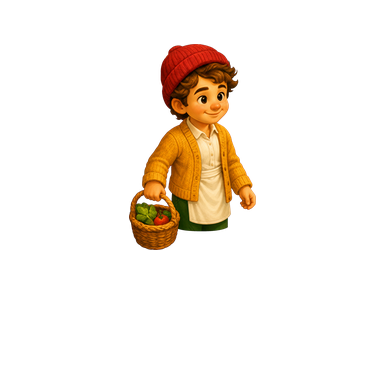
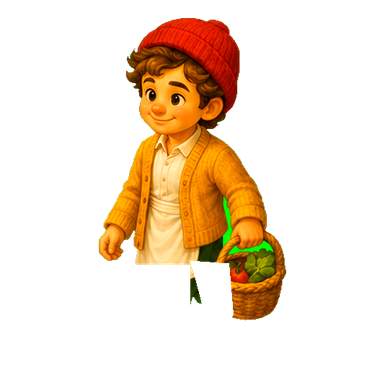
Improve idle Compo walkers and layout controls

Changed region(s): [[0.25, 0.0312, 0.75, 0.8438]]

diff --git a/idle/app.js b/idle/app.js
@@ -1345,18 +1345,18 @@
     return compo.buildings.towncenter >= 2 || compo.buildings.beachmarket >= 2 || compo.buildings.icecream >= 2 || compo.buildings.boat >= 2 || getCompoLevelInfo(compo.xp).level >= 3;
   }
 
-  function beachWalkerSprite(person, compo = getCompo()) {
+  function beachWalkerStrip(person, compo = getCompo()) {
     const early = {
-      "beach-angler": "beach-shell-collector",
-      "beach-vendor": "beach-red-hat-vendor",
-      "beach-counselor": "beach-crabber",
+      "beach-collector": "beach-shell-girl-walk",
+      "beach-crabber": "beach-crab-boy-walk",
+      "beach-helper": "beach-kelp-girl-walk",
     };
     const modern = {
-      "beach-angler": "beach-lifeguard-modern",
-      "beach-vendor": "beach-icecream-vendor-modern",
-      "beach-counselor": "beach-tennis-modern",
+      "beach-collector": "beach-lifeguard-girl-modern-walk",
+      "beach-crabber": "beach-sailor-boy-modern-walk",
+      "beach-helper": "beach-tennis-girl-modern-walk",
     };
-    const filename = (isModernCompoEra(compo) ? modern : early)[person] || early["beach-angler"];
+    const filename = (isModernCompoEra(compo) ? modern : early)[person] || early["beach-collector"];
     return `assets/art/compo-world/people/${filename}.png`;
   }
 
@@ -1476,17 +1476,17 @@
       const spotButtons = compo.spots.map((_, index) => `<button class="beach-spot" data-beach-spot="${index}" type="button"><img class="world-asset beach-catch-image" alt=""><span class="beach-label"></span></button>`);
       const buildingButtons = Object.entries(BEACH_BUILDINGS).map(([id, config]) => `<button class="beach-building ${id}-beach-building" data-beach-building="${id}" type="button" aria-label="${config.name}"><img class="world-asset beach-building-image" alt=""><em class="construction-badge" aria-hidden="true">Building…</em><span class="beach-label">${config.short}</span></button>`);
       const habitatButtons = Object.entries(BEACH_HABITATS).map(([id, config]) => `<button class="beach-habitat ${id}-beach-habitat" data-beach-habitat="${id}" type="button" aria-label="${config.name}"><img class="world-asset beach-habitat-image" alt=""><span class="beach-label">${config.name}</span></button>`);
-      const walkers = ["beach-angler", "beach-vendor", "beach-counselor"].map((person) => `<span class="shore-walker" data-beach-walker="${person}"><img class="shore-walker-sprite" alt=""></span>`);
+      const walkers = ["beach-collector", "beach-crabber", "beach-helper"].map((person) => `<span class="shore-walker shore-walker-${person}" data-beach-walker="${person}"><span class="shore-walker-frame"><img class="shore-walker-strip" alt=""></span></span>`);
       dom.beachWorld.innerHTML = [...spotButtons, ...buildingButtons, ...habitatButtons, `<div class="beach-life" aria-hidden="true">${walkers.join("")}</div>`].join("");
       dom.beachWorld.dataset.ready = "true";
       startBeachWalkerRoutes();
     }
 
     dom.beachWorld.querySelectorAll("[data-beach-walker]").forEach((walker) => {
-      const sprite = walker.querySelector(".shore-walker-sprite");
-      if (!sprite) return;
-      const source = beachWalkerSprite(walker.dataset.beachWalker, compo);
-      if (sprite.getAttribute("src") !== source) sprite.src = source;
+      const strip = walker.querySelector(".shore-walker-strip");
+      if (!strip) return;
+      const source = beachWalkerStrip(walker.dataset.beachWalker, compo);
+      if (strip.getAttribute("src") !== source) strip.src = source;
     });
 
     dom.beachWorld.querySelectorAll("[data-beach-spot]").forEach((button, index) => {
@@ -1567,7 +1567,11 @@
       button.disabled = region === "compo" && !state.districts.compo;
       if (region === "compo") button.textContent = state.districts.compo ? "Compo Coast" : "🔒 Compo Coast";
     });
-    dom.layoutButton.innerHTML = layoutMode ? `<span>✓</span><b>Done arranging</b>` : `<span>✥</span><b>Arrange town</b>`;
+    const arrangingLabel = state.activeRegion === "compo" ? "Arrange coast" : "Arrange town";
+    dom.layoutButton.innerHTML = layoutMode ? `<span>✓</span><b>Done arranging</b>` : `<span>✥</span><b>${arrangingLabel}</b>`;
+    dom.layoutHint.textContent = state.activeRegion === "compo"
+      ? "Drag fishing spots, beach buildings, and beach homes to arrange Compo. Tap Done when it feels right."
+      : "Drag buildings and habitats to arrange your town. Tap Done when it feels right.";
     dom.worldArt.classList.toggle("layout-mode", layoutMode);
     if (state.activeRegion === "compo") renderBeachWorld(now, season);
     if (dom.worldCrops.children.length !== state.plots.length) {
@@ -3098,12 +3102,12 @@
     const constructionTarget = beachConstructionTarget();
     if (constructionTarget !== null && Math.random() < 0.42) return constructionTarget;
     const catchTarget = beachReadyCatchTarget();
-    if (person === "beach-angler" && catchTarget !== null) return catchTarget;
+    if ((person === "beach-collector" || person === "beach-crabber") && catchTarget !== null) return catchTarget;
     const compo = getCompo();
-    if (person === "beach-vendor" && compo.buildings.beachmarket > 0 && (getTotalBeachProduce(compo) > 0 || Math.random() < 0.35)) return beachBuildingTarget("beachmarket");
-    if (person === "beach-counselor" && compo.buildings.towncenter > 0 && Math.random() < 0.55) return beachBuildingTarget("towncenter");
-    if (person === "beach-counselor" && compo.habitats.apartment > 0 && Math.random() < 0.25) return beachHabitatTarget("apartment");
-    if (person === "beach-angler" && compo.buildings.boat > 0 && Math.random() < 0.45) return beachBuildingTarget("boat");
+    if ((person === "beach-collector" || person === "beach-helper") && compo.buildings.beachmarket > 0 && (getTotalBeachProduce(compo) > 0 || Math.random() < 0.35)) return beachBuildingTarget("beachmarket");
+    if (person === "beach-helper" && compo.buildings.towncenter > 0 && Math.random() < 0.55) return beachBuildingTarget("towncenter");
+    if (person === "beach-helper" && compo.habitats.apartment > 0 && Math.random() < 0.25) return beachHabitatTarget("apartment");
+    if (person === "beach-crabber" && compo.buildings.boat > 0 && Math.random() < 0.45) return beachBuildingTarget("boat");
     const built = Object.entries(compo.buildings).filter(([, level]) => level > 0).map(([id]) => id);
     if (built.length && Math.random() < 0.22) return beachBuildingTarget(built[Math.floor(Math.random() * built.length)]);
     return null;
@@ -3154,7 +3158,7 @@
   }
 
   function startBeachWalkerRoutes() {
-    const starts = { "beach-angler": 2, "beach-vendor": 6, "beach-counselor": 10 };
+    const starts = { "beach-collector": 2, "beach-crabber": 6, "beach-helper": 10 };
     dom.beachWorld?.querySelectorAll("[data-beach-walker]").forEach((element) => {
       if (beachWalkerTimers.has(element)) return;
       const start = starts[element.dataset.beachWalker] ?? 3;
@@ -3165,7 +3169,7 @@
   }
 
   function setLayoutMode(enabled) {
-    layoutMode = Boolean(enabled) && state.activeRegion === "coleytown";
+    layoutMode = Boolean(enabled) && (state.activeRegion === "coleytown" || state.activeRegion === "compo");
     layoutDrag = null;
     dom.worldArt.classList.toggle("layout-mode", layoutMode);
     dom.layoutButton.setAttribute("aria-pressed", String(layoutMode));
@@ -3173,8 +3177,16 @@
   }
 
   function layoutTarget(element) {
-    const draggable = element.closest("[data-building], [data-animal], [data-world-plot]");
+    const selector = state.activeRegion === "compo"
+      ? "[data-beach-building], [data-beach-habitat], [data-beach-spot]"
+      : "[data-building], [data-animal], [data-world-plot]";
+    const draggable = element.closest(selector);
     if (!draggable || !dom.worldArt.contains(draggable)) return null;
+    if (state.activeRegion === "compo") {
+      if (draggable.dataset.beachBuilding) return { region: "compo", kind: "buildings", key: draggable.dataset.beachBuilding, element: draggable };
+      if (draggable.dataset.beachHabitat) return { region: "compo", kind: "habitats", key: draggable.dataset.beachHabitat, element: draggable };
+      return { region: "compo", kind: "spots", key: Number(draggable.dataset.beachSpot), element: draggable };
+    }
     if (draggable.dataset.building) return { kind: "buildings", key: draggable.dataset.building, element: draggable };
     if (draggable.dataset.animal) return { kind: "animals", key: draggable.dataset.animal, element: draggable };
     return { kind: "plots", key: Number(draggable.dataset.worldPlot), element: draggable };
@@ -3204,8 +3216,9 @@
     const x = clamp((event.clientX - worldRect.left - layoutDrag.offsetX) / worldRect.width * 100, 0, maxX);
     const y = clamp((event.clientY - worldRect.top - layoutDrag.offsetY) / worldRect.height * 100, 4, maxY);
     const position = { x: Math.round(x * 10) / 10, y: Math.round(y * 10) / 10 };
-    if (layoutDrag.kind === "plots") state.layout.plots[layoutDrag.key] = position;
-    else state.layout[layoutDrag.kind][layoutDrag.key] = position;
+    const targetLayout = layoutDrag.region === "compo" ? getCompo().layout : state.layout;
+    if (layoutDrag.kind === "plots" || layoutDrag.kind === "spots") targetLayout[layoutDrag.kind][layoutDrag.key] = position;
+    else targetLayout[layoutDrag.kind][layoutDrag.key] = position;
     layoutDrag.element.style.left = `${position.x}%`;
     layoutDrag.element.style.top = `${position.y}%`;
     layoutDrag.element.style.right = "auto";
@@ -3347,6 +3360,7 @@
       else { setView("farm"); selectPlot(index); }
     });
     dom.beachWorld.addEventListener("click", (event) => {
+      if (layoutMode) return;
       const spotButton = event.target.closest("[data-beach-spot]");
       if (spotButton) {
         const index = Number(spotButton.dataset.beachSpot);

diff --git a/idle/styles.css b/idle/styles.css
@@ -204,8 +204,7 @@ svg { display: block; }
 .world-art[data-region="compo"] .world-crops,
 .world-art[data-region="compo"] .town-building,
 .world-art[data-region="compo"] .animal-habitat,
-.world-art[data-region="compo"] .walker,
-.world-art[data-region="compo"] .layout-button { display: none; }
+.world-art[data-region="compo"] .walker { display: none; }
 .beach-world { display:none; position:absolute; z-index:4; inset:0; pointer-events:none; }
 .world-art[data-region="compo"] .beach-world { display:block; }
 .beach-spot,
@@ -239,11 +238,14 @@ svg { display: block; }
 .beach-habitat:hover .beach-label,
 .beach-spot:focus-visible .beach-label,
 .beach-building:focus-visible .beach-label,
-.beach-habitat:focus-visible .beach-label { opacity:1; translate:-50% 0; }
+.beach-habitat:focus-visible .beach-label,
+.world-art.layout-mode .beach-label { opacity:1; translate:-50% 0; }
 .beach-life { position:absolute; z-index:8; inset:0; overflow:hidden; pointer-events:none; }
 .shore-walker { position:absolute; z-index:8; width:clamp(54px,5vw,78px); aspect-ratio:1; overflow:visible; opacity:1; filter:drop-shadow(0 5px 3px rgba(21,52,62,.26)); transition-property:left,top; transition-timing-function:linear; pointer-events:none; }
-.shore-walker-sprite { position:absolute; inset:0; display:block; width:100%; height:100%; object-fit:contain; transform-origin:center bottom; animation:walker-body-bob 800ms ease-in-out infinite; }
-.shore-walker.walking-left .shore-walker-sprite { scale:-1 1; }
+.shore-walker-frame { position:absolute; inset:0; display:block; overflow:hidden; transform-origin:center bottom; animation:walker-body-bob 800ms ease-in-out infinite; }
+.shore-walker-strip { position:absolute; top:0; left:0; display:block; width:400%; height:100%; max-width:none; object-fit:fill; animation:shore-walk-strip 760ms steps(4) infinite; }
+.shore-walker.walking-left .shore-walker-frame { scale:-1 1; }
+@keyframes shore-walk-strip { to { transform:translateX(-100%); } }
 .world-vignette { position: absolute; inset: 0; z-index: 0; pointer-events: none; background: linear-gradient(90deg, rgba(25, 56, 39, .13), transparent 20%, transparent 74%, rgba(31, 63, 44, .1)), linear-gradient(0deg, rgba(20, 48, 34, .16), transparent 23%); }
 .world-art::after { content: ""; position: absolute; inset: 0; z-index: 0; pointer-events: none; background: radial-gradient(circle at 50% 40%, transparent 45%, rgba(30, 62, 40, .13)); mix-blend-mode: multiply; }
 .world-name { position: absolute; z-index: 2; top: 24px; left: 28px; display: none; color: #fff; text-shadow: 0 2px 8px rgba(30, 55, 39, .4); }
@@ -267,10 +269,14 @@ svg { display: block; }
 .walker-leg { z-index:1; transform-origin:50% 60%; animation:walker-leg-front 800ms cubic-bezier(.45,.05,.55,.95) infinite; }
 .walker-leg-back { z-index:0; animation-name:walker-leg-back; }
 .walker-vendor { --walker-scale:.88; left:54%; top:58%; scale:var(--walker-scale); }
+.walker-vendor .walker-leg { transform-origin:46% 72%; animation-name:walker-vendor-leg-front; }
+.walker-vendor .walker-leg-back { animation-name:walker-vendor-leg-back; }
 .walker-teacher { --walker-scale:.82; left:22%; top:40%; scale:var(--walker-scale); }
 .walker-farmer { --walker-scale:1; left:7%; top:55%; scale:var(--walker-scale); }
 @keyframes walker-leg-front { 0%,100% { transform:rotate(-17deg); } 50% { transform:rotate(17deg); } }
 @keyframes walker-leg-back { 0%,100% { transform:rotate(17deg); } 50% { transform:rotate(-17deg); } }
+@keyframes walker-vendor-leg-front { 0%,100% { transform:rotate(-10deg); } 50% { transform:rotate(10deg); } }
+@keyframes walker-vendor-leg-back { 0%,100% { transform:rotate(10deg); } 50% { transform:rotate(-10deg); } }
 @keyframes walker-body-bob { 0%,100% { translate:0 0; } 25%,75% { translate:0 1px; } 50% { translate:0 -1px; } }
 
 .world-asset { display:block; width:100%; height:100%; object-fit:contain; filter:drop-shadow(0 10px 7px rgba(36,53,44,.23)); pointer-events:none; }
@@ -287,10 +293,16 @@ svg { display: block; }
 .world-art.layout-mode .layout-button { background:var(--pumpkin); color:#fff; }
 .world-art.layout-mode .town-building,
 .world-art.layout-mode .animal-habitat,
-.world-art.layout-mode .world-crop { cursor:grab; outline:2px dashed rgba(255,255,255,.76); outline-offset:3px; border-radius:18px; }
+.world-art.layout-mode .world-crop,
+.world-art.layout-mode .beach-building,
+.world-art.layout-mode .beach-habitat,
+.world-art.layout-mode .beach-spot { cursor:grab; outline:2px dashed rgba(255,255,255,.76); outline-offset:3px; border-radius:18px; }
 .world-art.layout-mode .town-building:active,
 .world-art.layout-mode .animal-habitat:active,
-.world-art.layout-mode .world-crop:active { cursor:grabbing; transform:scale(1.04); z-index:14; }
+.world-art.layout-mode .world-crop:active,
+.world-art.layout-mode .beach-building:active,
+.world-art.layout-mode .beach-habitat:active,
+.world-art.layout-mode .beach-spot:active { cursor:grabbing; transform:scale(1.04); z-index:14; }
 .world-art.layout-mode { touch-action:none; }
 
 .world-crop { position: absolute; z-index: 4; width: clamp(86px, 10vw, 145px); aspect-ratio: 1; padding: 0; border: 0; background: transparent; cursor: pointer; transition: transform 170ms ease, filter 170ms ease; }
@@ -715,11 +727,11 @@ svg { display: block; }
 @media (prefers-reduced-motion: reduce) {
   *, *::before, *::after { scroll-behavior: auto !important; animation-duration: .01ms !important; animation-iteration-count: 1 !important; transition-duration: .01ms !important; }
   .walker { animation:none !important; transition:none !important; }
-  .walker-rig, .walker-leg, .shore-walker-sprite { animation:none !important; }
+.walker-rig, .walker-leg, .shore-walker-frame, .shore-walker-strip { animation:none !important; }
   .walker-leg { transform:rotate(0); }
 }
 
 .reduce-motion *, .reduce-motion *::before, .reduce-motion *::after { animation-duration: .01ms !important; animation-iteration-count: 1 !important; transition-duration: .01ms !important; }
 .reduce-motion .walker { animation:none !important; transition:none !important; }
-.reduce-motion .walker-rig, .reduce-motion .walker-leg, .reduce-motion .shore-walker-sprite { animation:none !important; }
+.reduce-motion .walker-rig, .reduce-motion .walker-leg, .reduce-motion .shore-walker-frame, .reduce-motion .shore-walker-strip { animation:none !important; }
 .reduce-motion .walker-leg { transform:rotate(0); }

diff --git a/idle/sw.js b/idle/sw.js
@@ -1,4 +1,4 @@
-const CACHE_NAME = "idle-town-pwa-cache-v15";
+const CACHE_NAME = "idle-town-pwa-cache-v17";
 const CROP_FILES = ["carrot", "wheat", "strawberry", "pumpkin", "blueberry", "apple"].flatMap((crop) =>
   ["soil", "sprout", "young", "mature"].map((stage) => `./assets/art/living-world/crops/${crop}-${stage}.png`)
 );
@@ -21,12 +21,12 @@ const COMPO_HABITAT_FILES = ["beachhouse", "apartment"].flatMap((habitat) =>
   ["empty", "young", "adult", "full"].map((stage) => `./assets/art/compo-world/habitats/${habitat}-${stage}.png`)
 );
 const COMPO_PEOPLE_FILES = [
-  "beach-shell-collector",
-  "beach-crabber",
-  "beach-red-hat-vendor",
-  "beach-lifeguard-modern",
-  "beach-icecream-vendor-modern",
-  "beach-tennis-modern",
+  "beach-shell-girl-walk",
+  "beach-crab-boy-walk",
+  "beach-kelp-girl-walk",
+  "beach-lifeguard-girl-modern-walk",
+  "beach-sailor-boy-modern-walk",
+  "beach-tennis-girl-modern-walk",
 ].map((person) => `./assets/art/compo-world/people/${person}.png`);
 const APP_FILES = [
   "./",
